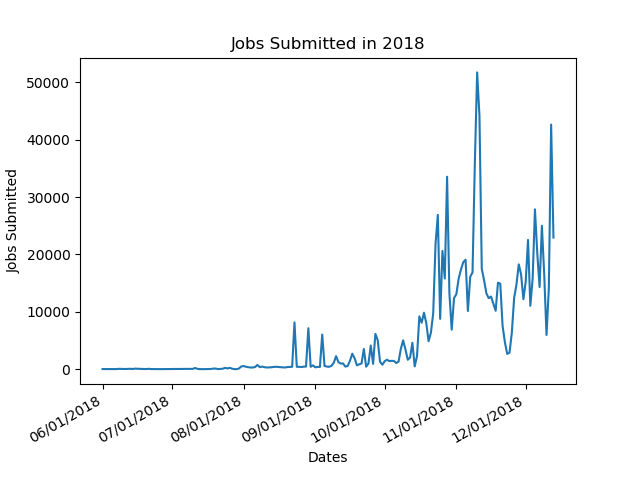
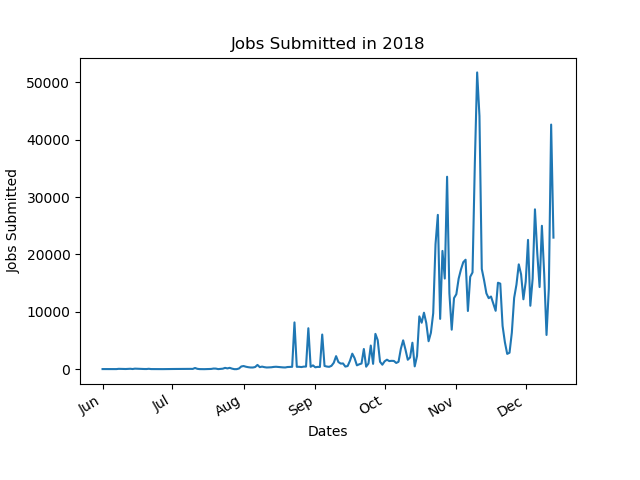
now have improved graphics for stats figures

diff --git a/templates/stats/SubmissionGraphic.html b/templates/stats/SubmissionGraphic.html
@@ -24,11 +24,12 @@
     <div class="tab" index="3" style="display: inline-block;width: 15%" hidden="true"><a>link4</a></div>
     <div class="tab" index="4" style="display: inline-block;width: 15%" hidden="true"><a>link5</a></div>
 </div>
+
 <div class="first">
 <img src= "{% static 'images/submission-stats.png' %}" />
 
 </div>
-<img class="other"  src="" style="width: 496px;height: 369px;margin-top: 60px;">
+
 {% endblock %}
 {% block inline-js %}
 

diff --git a/ScriptGen/views.py b/ScriptGen/views.py
@@ -123,13 +123,13 @@ def get_name(request):
             #add compilation and execution logic
             if Executable.endswith(".py"):
 
-                file.write("python ./"+str(Executable)+"\n")
+                file.write("srun -n "+str(Tasks)+" " +"python ./"+str(Executable)+"\n")
             if Executable.endswith(".c"):
                 file.write("gcc "+Executable+" -o "+Executable[0:len(Executable)-2] +"\n")
-                file.write("./"+str(Executable[0:len(Executable)-2]))
+                file.write("srun -n "+str(Tasks)+" "+"./"+str(Executable[0:len(Executable)-2]))
             if Executable.endswith(".cpp"):
                 file.write("g++ "+Executable+" -o "+Executable[0:len(Executable)-4] +"\n")
-                file.write("./"+str(Executable[0:len(Executable)-4]))
+                file.write("srun -n "+str(Tasks)+" "+"./"+str(Executable[0:len(Executable)-4]))
 
 
 
